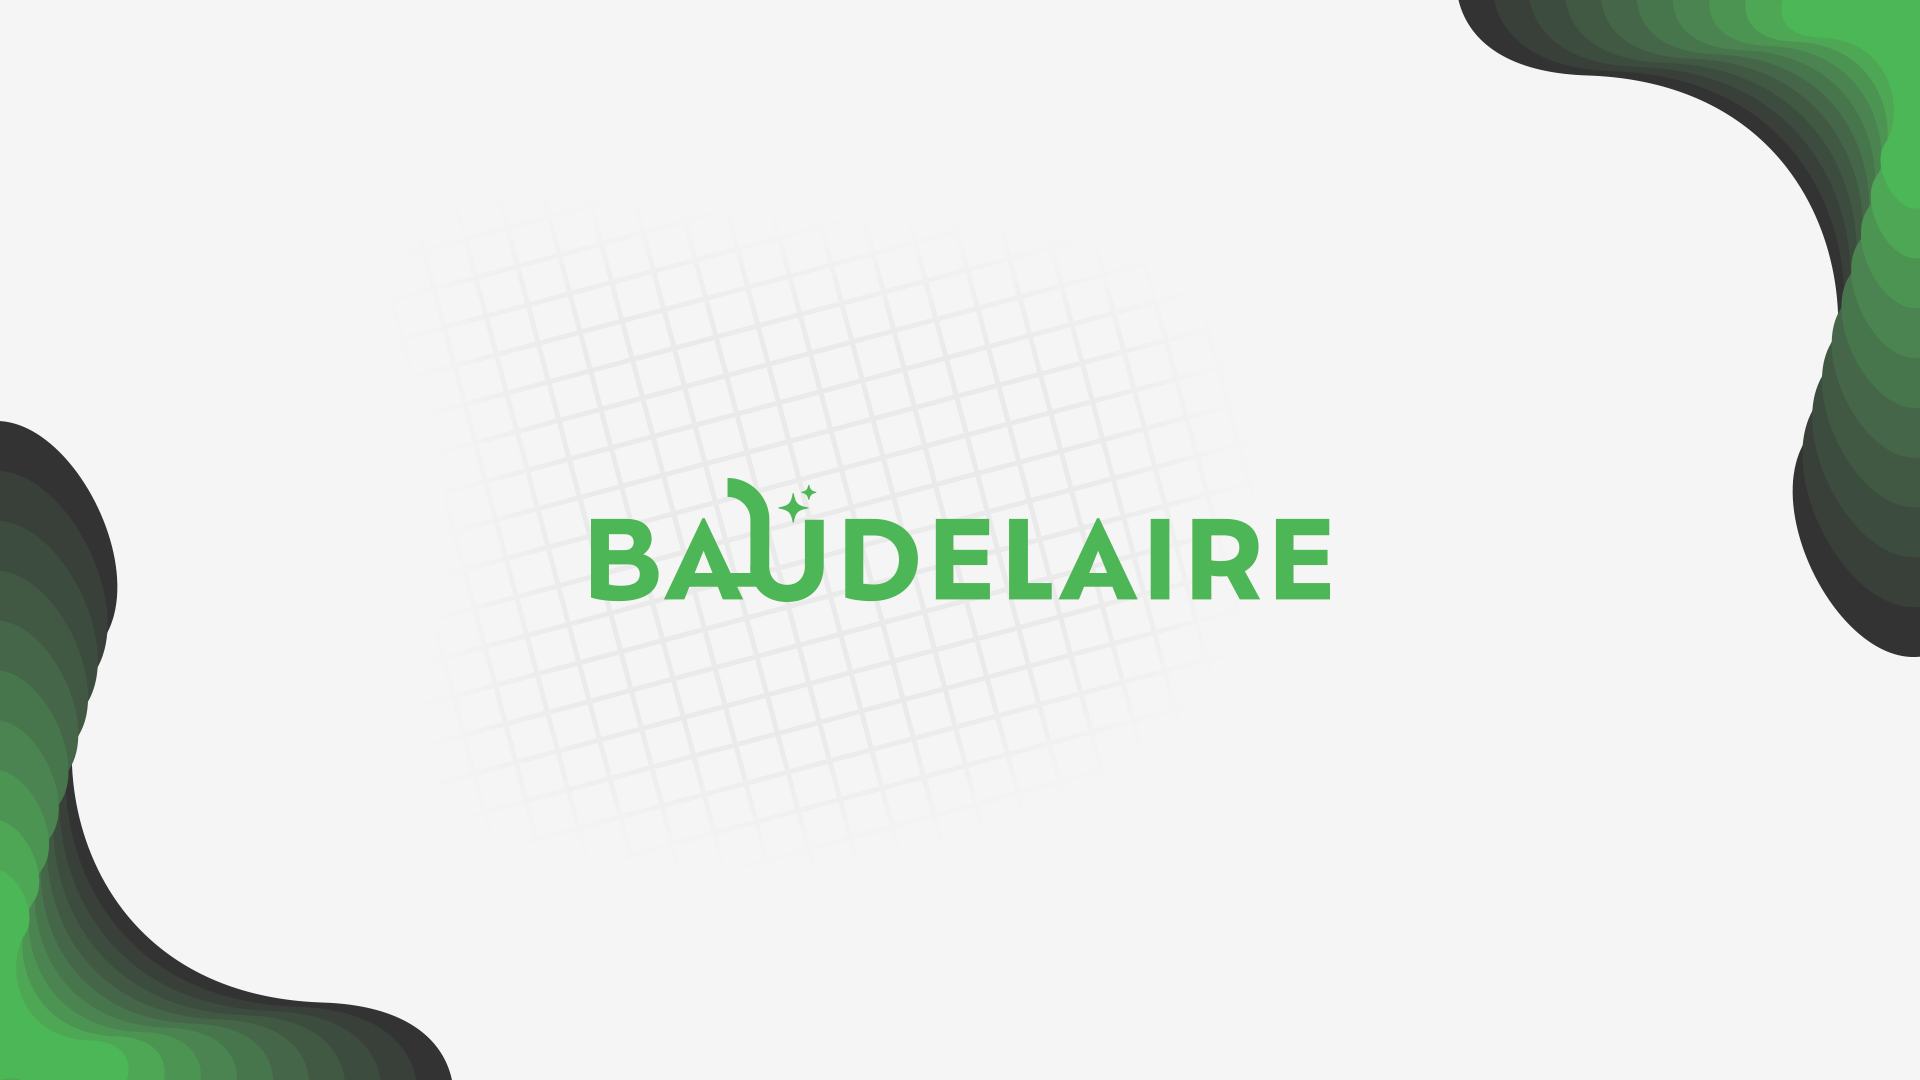
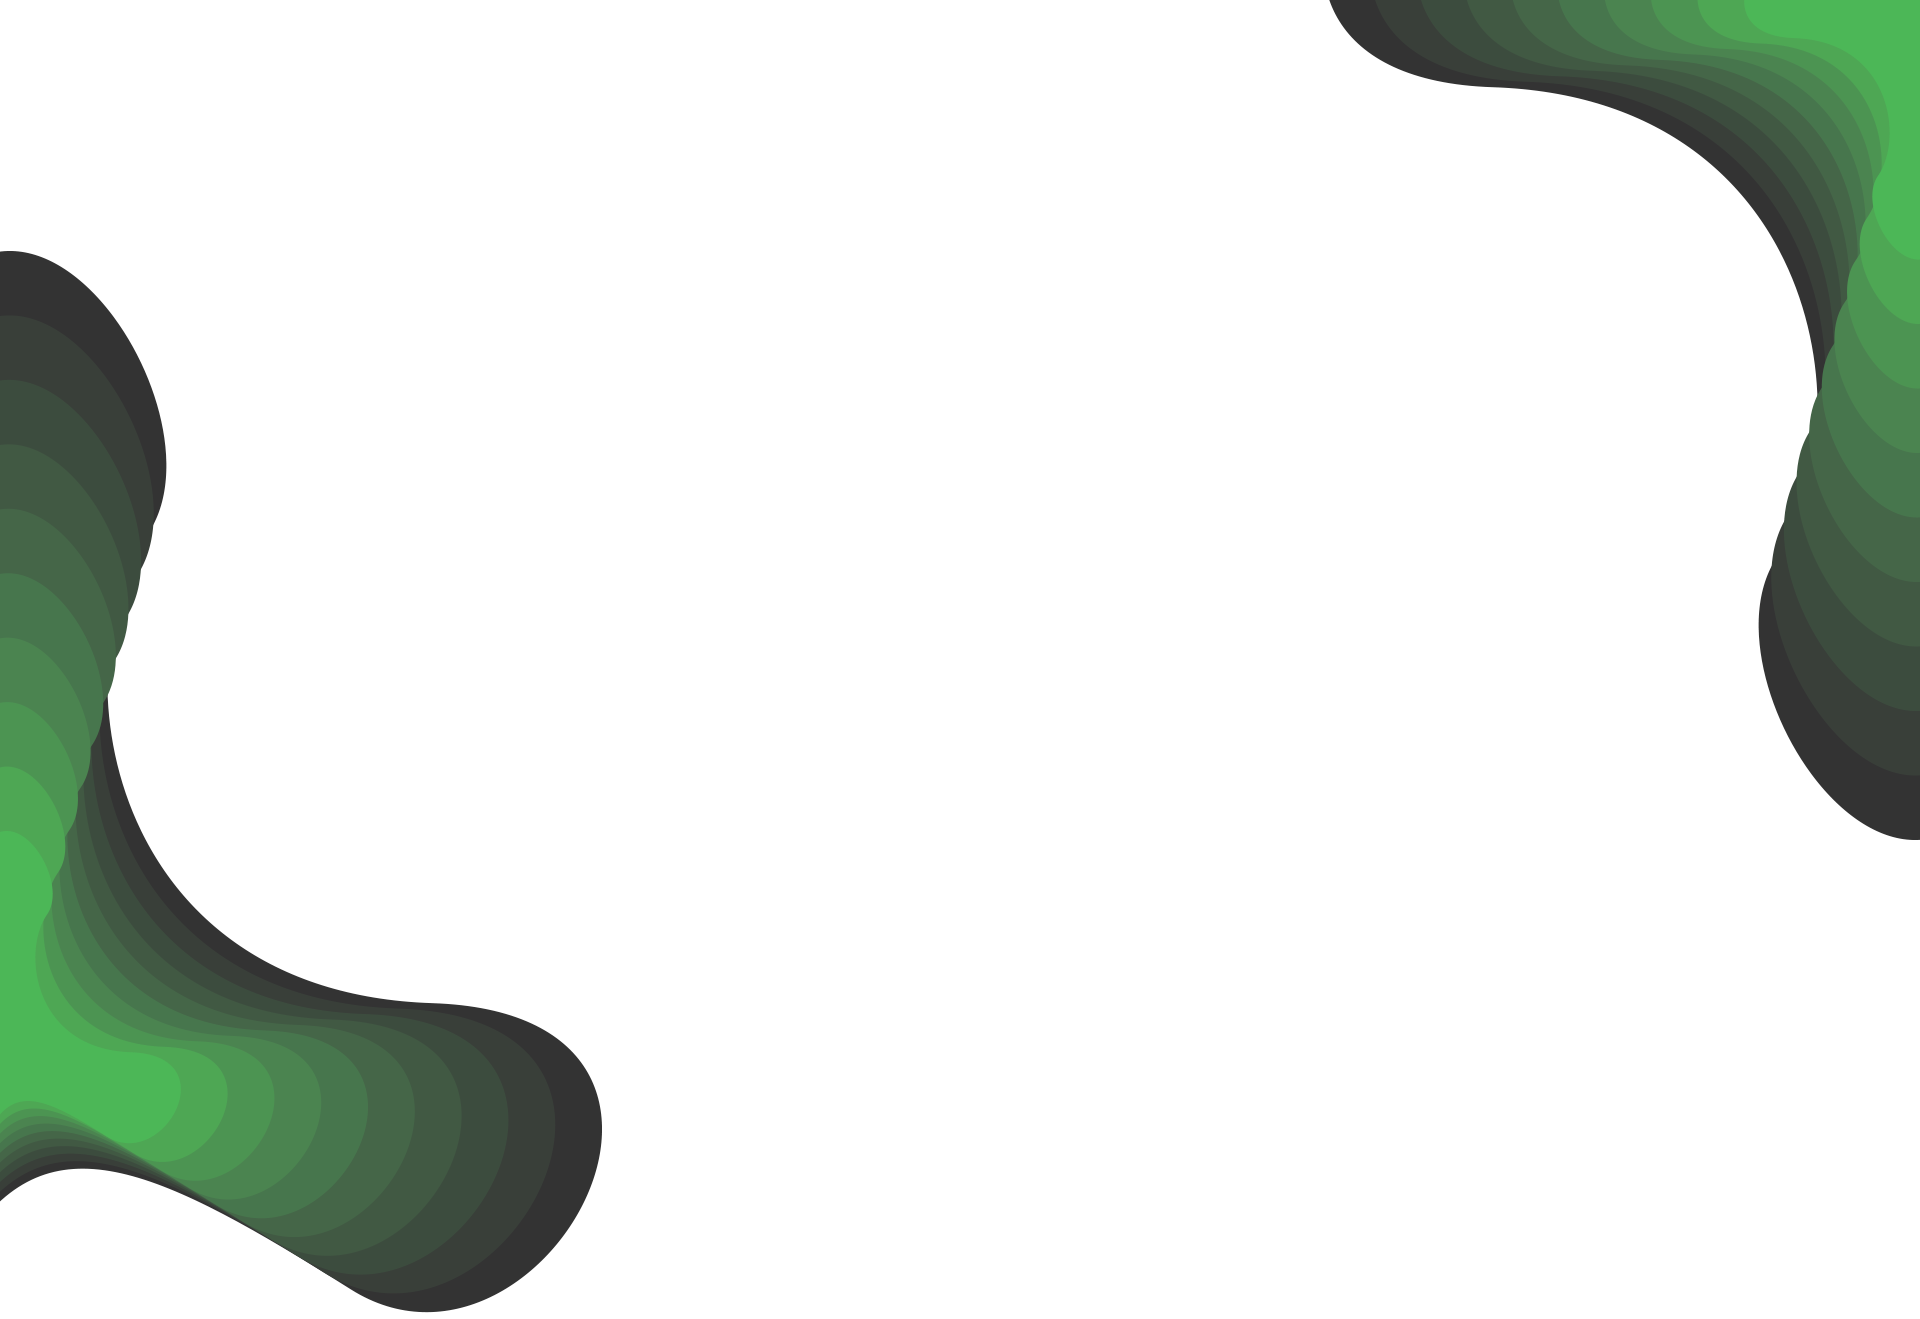
initialcommit

Changed region(s): [[0.0, 0.1833, 0.3125, 1.0], [0.6875, 0.0, 1.0, 0.6417], [0.2812, 0.4278, 0.6875, 0.5806]]

diff --git a/portfolio.html b/portfolio.html
@@ -3,7 +3,7 @@
     <meta charset="UTF-8">
     <meta http-equiv="X-UA-Compatible" content="IE=edge">
     <meta name="viewport" content="width=device-width, initial-scale=1.0">
-    <title>Home | Baudelaire</title>
+    <title>Portfolio | Baudelaire</title>
     <link rel="stylesheet" href="styles.css">
 </head>
 <body>
@@ -11,15 +11,12 @@
     <img src="/assets/logogreen.svg" class="logo" alt="logo">
         <ul class="navbar">
             <li>
-                <a class="active" href="index.html" >Home</a>
-                <a href="portfolio.html">Portfolio</a>
+                <a href="index.html" >Home</a>
+                <a class="active" href="portfolio.html">Portfolio</a>
                 <a href="about.html">About</a>
                 <a href="contact.html">Contact</a>
             </li>
         </ul>
     </header>
-    <section class="banner">
-        <img class="bannerimg" src="/assets/banner.png" alt="">
-    </section>
 </body>
 </html>

diff --git a/contact.html b/contact.html
@@ -3,7 +3,7 @@
     <meta charset="UTF-8">
     <meta http-equiv="X-UA-Compatible" content="IE=edge">
     <meta name="viewport" content="width=device-width, initial-scale=1.0">
-    <title>Home | Baudelaire</title>
+    <title>Contact | Baudelaire</title>
     <link rel="stylesheet" href="styles.css">
 </head>
 <body>
@@ -11,15 +11,12 @@
     <img src="/assets/logogreen.svg" class="logo" alt="logo">
         <ul class="navbar">
             <li>
-                <a class="active" href="index.html" >Home</a>
+                <a href="index.html" >Home</a>
                 <a href="portfolio.html">Portfolio</a>
                 <a href="about.html">About</a>
-                <a href="contact.html">Contact</a>
+                <a class="active" href="contact.html">Contact</a>
             </li>
         </ul>
     </header>
-    <section class="banner">
-        <img class="bannerimg" src="/assets/banner.png" alt="">
-    </section>
 </body>
 </html>

diff --git a/about.html b/about.html
@@ -3,7 +3,7 @@
     <meta charset="UTF-8">
     <meta http-equiv="X-UA-Compatible" content="IE=edge">
     <meta name="viewport" content="width=device-width, initial-scale=1.0">
-    <title>Home | Baudelaire</title>
+    <title>About | Baudelaire</title>
     <link rel="stylesheet" href="styles.css">
 </head>
 <body>
@@ -11,15 +11,12 @@
     <img src="/assets/logogreen.svg" class="logo" alt="logo">
         <ul class="navbar">
             <li>
-                <a class="active" href="index.html" >Home</a>
+                <a href="index.html" >Home</a>
                 <a href="portfolio.html">Portfolio</a>
-                <a href="about.html">About</a>
+                <a class="active" href="about.html">About</a>
                 <a href="contact.html">Contact</a>
             </li>
         </ul>
     </header>
-    <section class="banner">
-        <img class="bannerimg" src="/assets/banner.png" alt="">
-    </section>
 </body>
 </html>

diff --git a/styles.css b/styles.css
@@ -9,7 +9,7 @@
 :root{
     --white: #f5f5f5;
     --black: #333333;
-    --green: #74ae4f;
+    --green: #4eb857;
     --gray: #525b59;
 }
 body{
@@ -40,9 +40,12 @@ header{
     padding: 12px 12px;
     margin: 0 12px;
 }
+.navbar a.active{
+    color: var(--green);
+}
 .navbar a:hover{
     color: var(--gray);
 }
-#banner img{
+.banner img.bannerimg{
     width: 100vw;
 }
